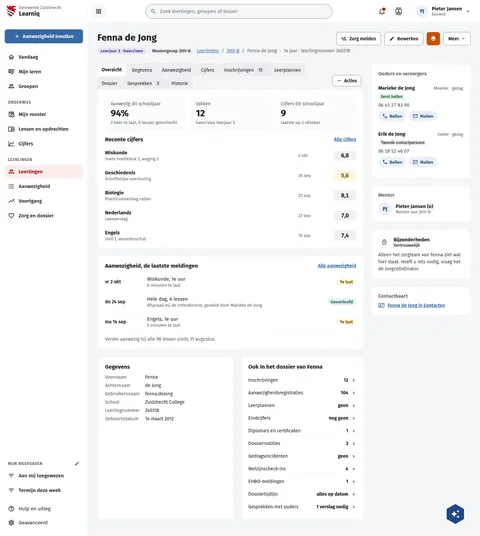
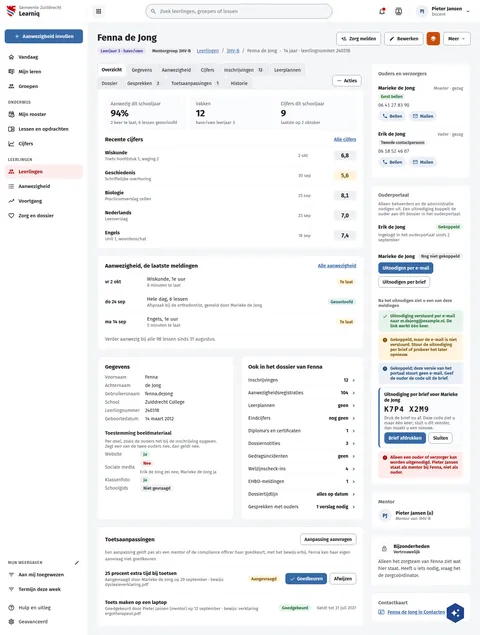
feat(screens): draw image consent, parent portal invites and exam accommodations on learniq/LqLeerling
Adds to the pupil board: consent for images per purpose on the details
block, a parent portal section with invite by email or letter, the three
outcomes, the one-time letter code and the refusal for someone who is not
a parent, and an exam accommodations tab with a requested and an approved
accommodation.

diff --git a/preview/screens/boards/LqLeerling.html b/preview/screens/boards/LqLeerling.html
@@ -191,6 +191,8 @@ a{color:var(--sc-primary, #3669a5)}a:hover{color:var(--sc-primary-deep, #234a78)
                 
                   <button type="button" role="tab" aria-selected="false" style="display: inline-flex; align-items: center; gap: 8px; box-sizing: border-box; min-height: 34px; padding: 8px 12px; margin-bottom: -1px; border: 1px solid #d6d9de; border-bottom: none; border-radius: 8px 8px 0 0; font: 400 14px var(--sc-font, 'Fira Sans'), sans-serif; color: var(--sc-work-ink, #1b1c1d); background: #eceef1; cursor: pointer; white-space: nowrap;">Gesprekken<span style="min-width: 20px; height: 20px; padding: 0 6px; box-sizing: border-box; border-radius: 10px; background: var(--sc-work-line, #e4e6ea); color: var(--sc-work-text, #3d4047); font-size: 12px; font-weight: 600; display: inline-flex; align-items: center; justify-content: center">2</span></button>
                 
+                  <button type="button" role="tab" aria-selected="false" style="display: inline-flex; align-items: center; gap: 8px; box-sizing: border-box; min-height: 34px; padding: 8px 12px; margin-bottom: -1px; border: 1px solid #d6d9de; border-bottom: none; border-radius: 8px 8px 0 0; font: 400 14px var(--sc-font, 'Fira Sans'), sans-serif; color: var(--sc-work-ink, #1b1c1d); background: #eceef1; cursor: pointer; white-space: nowrap;">Toetsaanpassingen<span style="min-width: 20px; height: 20px; padding: 0 6px; box-sizing: border-box; border-radius: 10px; background: var(--sc-work-line, #e4e6ea); color: var(--sc-work-text, #3d4047); font-size: 12px; font-weight: 600; display: inline-flex; align-items: center; justify-content: center">1</span></button>
+                
                   <button type="button" role="tab" aria-selected="false" style="display: inline-flex; align-items: center; gap: 8px; box-sizing: border-box; min-height: 34px; padding: 8px 12px; margin-bottom: -1px; border: 1px solid #d6d9de; border-bottom: none; border-radius: 8px 8px 0 0; font: 400 14px var(--sc-font, 'Fira Sans'), sans-serif; color: var(--sc-work-ink, #1b1c1d); background: #eceef1; cursor: pointer; white-space: nowrap;">Historie</button>
                 
               </div>
@@ -268,12 +270,19 @@ a{color:var(--sc-primary, #3669a5)}a:hover{color:var(--sc-primary-deep, #234a78)
               <section aria-labelledby="ll-geg" style="flex: 1 1 340px; min-width: 0; background: #ffffff; border: 1px solid var(--sc-work-line, #e4e6ea); border-radius: 12px; padding: 20px 22px; display: flex; flex-direction: column; gap: 12px">
                 <h2 id="ll-geg" style="margin: 0; font-size: 17px; font-weight: 700">Gegevens</h2>
                 <dl style="margin: 0; display: grid; grid-template-columns: max-content 1fr; gap: 8px 16px; font-size: 14px"><dt style="color: var(--sc-work-muted, #5e6168)">Voornaam</dt><dd style="margin: 0">Fenna</dd><dt style="color: var(--sc-work-muted, #5e6168)">Achternaam</dt><dd style="margin: 0">de Jong</dd><dt style="color: var(--sc-work-muted, #5e6168)">Gebruikersnaam</dt><dd style="margin: 0">fenna.dejong</dd><dt style="color: var(--sc-work-muted, #5e6168)">School</dt><dd style="margin: 0">Zuiddrecht College</dd><dt style="color: var(--sc-work-muted, #5e6168)">Leerlingnummer</dt><dd style="margin: 0">240318</dd><dt style="color: var(--sc-work-muted, #5e6168)">Geboortedatum</dt><dd style="margin: 0">14 maart 2012</dd></dl>
+                <div style="display: flex; flex-direction: column; gap: 8px; padding-top: 12px; border-top: 1px solid var(--sc-work-soft, #eef0f3)"><h3 style="margin: 0; font-size: 15px; font-weight: 600">Toestemming beeldmateriaal</h3><span style="font-size: 13px; color: var(--sc-work-muted, #5e6168)">Per doel, zoals de ouders het bij de inschrijving opgaven. Zegt een van de twee ouders nee, dan geldt nee.</span><dl style="margin: 0; display: grid; grid-template-columns: max-content 1fr; gap: 8px 16px; font-size: 14px; align-items: center"><dt style="color: var(--sc-work-muted, #5e6168)">Website</dt><dd style="margin: 0"><span style="padding: 3px 10px; border-radius: 12px; font-size: 13px; font-weight: 600; background: #e6f4ea; color: #1e6b33">Ja</span></dd><dt style="color: var(--sc-work-muted, #5e6168)">Sociale media</dt><dd style="margin: 0; display: flex; gap: 8px; align-items: center; flex-wrap: wrap"><span style="padding: 3px 10px; border-radius: 12px; font-size: 13px; font-weight: 600; background: #fdecea; color: var(--sc-accent-deep, #a30000)">Nee</span><span style="font-size: 13px; color: var(--sc-work-muted, #5e6168)">Erik de Jong zei nee, Marieke de Jong ja</span></dd><dt style="color: var(--sc-work-muted, #5e6168)">Klassenfoto</dt><dd style="margin: 0"><span style="padding: 3px 10px; border-radius: 12px; font-size: 13px; font-weight: 600; background: #e6f4ea; color: #1e6b33">Ja</span></dd><dt style="color: var(--sc-work-muted, #5e6168)">Schoolgids</dt><dd style="margin: 0"><span style="padding: 3px 10px; border-radius: 12px; font-size: 13px; font-weight: 600; background: var(--sc-work-chip, #f0f1f3); color: var(--sc-work-text, #3d4047)">Niet gevraagd</span></dd></dl></div>
               </section>
               <section aria-labelledby="ll-ook" style="flex: 1 1 300px; min-width: 0; background: #ffffff; border: 1px solid var(--sc-work-line, #e4e6ea); border-radius: 12px; padding: 20px 22px; display: flex; flex-direction: column; gap: 0">
                 <h2 id="ll-ook" style="margin: 0 0 10px; font-size: 17px; font-weight: 700">Ook in het dossier van Fenna</h2>
                 <a href="#" style="display: flex; justify-content: space-between; gap: 8px; padding: 10px 0; border-top: 1px solid var(--sc-work-soft, #eef0f3); font-size: 14px; color: var(--sc-work-ink, #1b1c1d); text-decoration: none"><span>Inschrijvingen</span><span style="display: flex; gap: 8px; align-items: center"><strong>12</strong><svg width="16" height="16" viewbox="0 0 24 24" fill="currentColor"><path d="M8.59,16.58L13.17,12L8.59,7.41L10,6L16,12L10,18L8.59,16.58Z"></path></svg></span></a><a href="LqAanwezigheidLijst.html" style="display: flex; justify-content: space-between; gap: 8px; padding: 10px 0; border-top: 1px solid var(--sc-work-soft, #eef0f3); font-size: 14px; color: var(--sc-work-ink, #1b1c1d); text-decoration: none"><span>Aanwezigheidsregistraties</span><span style="display: flex; gap: 8px; align-items: center"><strong>104</strong><svg width="16" height="16" viewbox="0 0 24 24" fill="currentColor"><path d="M8.59,16.58L13.17,12L8.59,7.41L10,6L16,12L10,18L8.59,16.58Z"></path></svg></span></a><a href="#" style="display: flex; justify-content: space-between; gap: 8px; padding: 10px 0; border-top: 1px solid var(--sc-work-soft, #eef0f3); font-size: 14px; color: var(--sc-work-ink, #1b1c1d); text-decoration: none"><span>Leerplannen</span><span style="display: flex; gap: 8px; align-items: center"><strong>geen</strong><svg width="16" height="16" viewbox="0 0 24 24" fill="currentColor"><path d="M8.59,16.58L13.17,12L8.59,7.41L10,6L16,12L10,18L8.59,16.58Z"></path></svg></span></a><a href="#" style="display: flex; justify-content: space-between; gap: 8px; padding: 10px 0; border-top: 1px solid var(--sc-work-soft, #eef0f3); font-size: 14px; color: var(--sc-work-ink, #1b1c1d); text-decoration: none"><span>Eindcijfers</span><span style="display: flex; gap: 8px; align-items: center"><strong>nog geen</strong><svg width="16" height="16" viewbox="0 0 24 24" fill="currentColor"><path d="M8.59,16.58L13.17,12L8.59,7.41L10,6L16,12L10,18L8.59,16.58Z"></path></svg></span></a><a href="#" style="display: flex; justify-content: space-between; gap: 8px; padding: 10px 0; border-top: 1px solid var(--sc-work-soft, #eef0f3); font-size: 14px; color: var(--sc-work-ink, #1b1c1d); text-decoration: none"><span>Diploma's en certificaten</span><span style="display: flex; gap: 8px; align-items: center"><strong>1</strong><svg width="16" height="16" viewbox="0 0 24 24" fill="currentColor"><path d="M8.59,16.58L13.17,12L8.59,7.41L10,6L16,12L10,18L8.59,16.58Z"></path></svg></span></a><a href="LqDossier.html" style="display: flex; justify-content: space-between; gap: 8px; padding: 10px 0; border-top: 1px solid var(--sc-work-soft, #eef0f3); font-size: 14px; color: var(--sc-work-ink, #1b1c1d); text-decoration: none"><span>Dossiernotities</span><span style="display: flex; gap: 8px; align-items: center"><strong>3</strong><svg width="16" height="16" viewbox="0 0 24 24" fill="currentColor"><path d="M8.59,16.58L13.17,12L8.59,7.41L10,6L16,12L10,18L8.59,16.58Z"></path></svg></span></a><a href="#" style="display: flex; justify-content: space-between; gap: 8px; padding: 10px 0; border-top: 1px solid var(--sc-work-soft, #eef0f3); font-size: 14px; color: var(--sc-work-ink, #1b1c1d); text-decoration: none"><span>Gedragsincidenten</span><span style="display: flex; gap: 8px; align-items: center"><strong>geen</strong><svg width="16" height="16" viewbox="0 0 24 24" fill="currentColor"><path d="M8.59,16.58L13.17,12L8.59,7.41L10,6L16,12L10,18L8.59,16.58Z"></path></svg></span></a><a href="#" style="display: flex; justify-content: space-between; gap: 8px; padding: 10px 0; border-top: 1px solid var(--sc-work-soft, #eef0f3); font-size: 14px; color: var(--sc-work-ink, #1b1c1d); text-decoration: none"><span>Welzijnscheck-ins</span><span style="display: flex; gap: 8px; align-items: center"><strong>4</strong><svg width="16" height="16" viewbox="0 0 24 24" fill="currentColor"><path d="M8.59,16.58L13.17,12L8.59,7.41L10,6L16,12L10,18L8.59,16.58Z"></path></svg></span></a><a href="#" style="display: flex; justify-content: space-between; gap: 8px; padding: 10px 0; border-top: 1px solid var(--sc-work-soft, #eef0f3); font-size: 14px; color: var(--sc-work-ink, #1b1c1d); text-decoration: none"><span>EHBO-meldingen</span><span style="display: flex; gap: 8px; align-items: center"><strong>1</strong><svg width="16" height="16" viewbox="0 0 24 24" fill="currentColor"><path d="M8.59,16.58L13.17,12L8.59,7.41L10,6L16,12L10,18L8.59,16.58Z"></path></svg></span></a><a href="LqDossierTijdlijn.html" style="display: flex; justify-content: space-between; gap: 8px; padding: 10px 0; border-top: 1px solid var(--sc-work-soft, #eef0f3); font-size: 14px; color: var(--sc-work-ink, #1b1c1d); text-decoration: none"><span>Dossiertijdlijn</span><span style="display: flex; gap: 8px; align-items: center"><strong>alles op datum</strong><svg width="16" height="16" viewbox="0 0 24 24" fill="currentColor" aria-hidden="true"><path d="M8.59,16.58L13.17,12L8.59,7.41L10,6L16,12L10,18L8.59,16.58Z"></path></svg></span></a><a href="LqGespreksverslag.html" style="display: flex; justify-content: space-between; gap: 8px; padding: 10px 0; border-top: 1px solid var(--sc-work-soft, #eef0f3); font-size: 14px; color: var(--sc-work-ink, #1b1c1d); text-decoration: none"><span>Gesprekken met ouders</span><span style="display: flex; gap: 8px; align-items: center"><strong>1 verslag nodig</strong><svg width="16" height="16" viewbox="0 0 24 24" fill="currentColor" aria-hidden="true"><path d="M8.59,16.58L13.17,12L8.59,7.41L10,6L16,12L10,18L8.59,16.58Z"></path></svg></span></a>
               </section>
             </div>
+            <section aria-labelledby="ll-toets" style="background: #ffffff; border: 1px solid var(--sc-work-line, #e4e6ea); border-radius: 12px; padding: 20px 22px; display: flex; flex-direction: column; gap: 12px">
+              <div style="display: flex; justify-content: space-between; align-items: center; gap: 12px; flex-wrap: wrap"><h2 id="ll-toets" style="margin: 0; font-size: 17px; font-weight: 700">Toetsaanpassingen</h2><button type="button" style="display: inline-flex; align-items: center; gap: 6px; height: 34px; padding: 0 12px; border-radius: 8px; font: 600 14px var(--sc-font, 'Fira Sans'), sans-serif; white-space: nowrap; border: 1px solid var(--sc-work-field, #828a95); background: #ffffff; color: var(--sc-work-ink, #1b1c1d)">Aanpassing aanvragen</button></div>
+              <p style="margin: 0; font-size: 13px; color: var(--sc-work-muted, #5e6168); line-height: 1.5">Een aanpassing geldt pas als een mentor of de compliance officer haar goedkeurt, met het bewijs erbij. Fenna kan haar eigen aanvraag niet goedkeuren.</p>
+              <div style="display: flex; flex-wrap: wrap; align-items: center; gap: 8px 16px; padding: 12px 0; border-top: 1px solid var(--sc-work-soft, #eef0f3)"><span style="flex: 1 1 240px; display: flex; flex-direction: column; gap: 2px"><strong style="font-size: 15px">25 procent extra tijd bij toetsen</strong><span style="font-size: 13px; color: var(--sc-work-muted, #5e6168)">Aangevraagd door Marieke de Jong op 29 september · bewijs: dyslexieverklaring.pdf</span></span><span style="padding: 3px 10px; border-radius: 12px; font-size: 13px; font-weight: 600; background: #fff4de; color: #7a4f00">Aangevraagd</span><span style="flex: 0 0 auto; display: flex; gap: 8px; align-items: center"><button type="button" style="display: inline-flex; align-items: center; gap: 6px; height: 34px; padding: 0 12px; border-radius: 8px; font: 600 14px var(--sc-font, 'Fira Sans'), sans-serif; white-space: nowrap; border: 1px solid var(--sc-primary, #3669a5); background: var(--sc-primary, #3669a5); color: #ffffff"><svg width="16" height="16" viewbox="0 0 24 24" fill="currentColor" aria-hidden="true" style="flex: none; margin-top: 1px"><path d="M21,7L9,19L3.5,13.5L4.91,12.09L9,16.17L19.59,5.59L21,7Z"></path></svg>Goedkeuren</button><button type="button" style="display: inline-flex; align-items: center; gap: 6px; height: 34px; padding: 0 12px; border-radius: 8px; font: 600 14px var(--sc-font, 'Fira Sans'), sans-serif; white-space: nowrap; border: 1px solid var(--sc-work-field, #828a95); background: #ffffff; color: var(--sc-work-ink, #1b1c1d)">Afwijzen</button></span></div>
+              <div style="display: flex; flex-wrap: wrap; align-items: center; gap: 8px 16px; padding: 12px 0; border-top: 1px solid var(--sc-work-soft, #eef0f3)"><span style="flex: 1 1 240px; display: flex; flex-direction: column; gap: 2px"><strong style="font-size: 15px">Toets maken op een laptop</strong><span style="font-size: 13px; color: var(--sc-work-muted, #5e6168)">Goedgekeurd door Pieter Jansen (mentor) op 12 september · bewijs: verklaring ergotherapeut.pdf</span></span><span style="padding: 3px 10px; border-radius: 12px; font-size: 13px; font-weight: 600; background: #e6f4ea; color: #1e6b33">Goedgekeurd</span><span style="flex: 0 0 auto; display: flex; gap: 8px; align-items: center"><span style="font-size: 13px; color: var(--sc-work-muted, #5e6168)">Geldt tot 31 juli 2027</span></span></div>
+            </section>
           </div>
 
           <aside style="flex: 1 1 300px; min-width: 0; display: flex; flex-direction: column; gap: 20px">
@@ -300,6 +309,19 @@ a{color:var(--sc-primary, #3669a5)}a:hover{color:var(--sc-primary-deep, #234a78)
                   </span>
                 </div>
               
+            </section>
+            <section aria-labelledby="ll-portaal" style="background: #ffffff; border: 1px solid var(--sc-work-line, #e4e6ea); border-radius: 12px; padding: 20px 22px; display: flex; flex-direction: column; gap: 12px; gap: 10px">
+              <h2 id="ll-portaal" style="margin: 0; font-size: 15px; font-weight: 600; color: var(--sc-work-muted, #5e6168)">Ouderportaal</h2>
+              <span style="font-size: 13px; color: var(--sc-work-muted, #5e6168)">Alleen beheerders en de administratie nodigen uit. Een uitnodiging koppelt de ouder aan dit dossier in het ouderportaal.</span>
+              <div style="display: flex; flex-direction: column; gap: 6px; padding: 10px 0; border-top: 1px solid var(--sc-work-soft, #eef0f3)"><span style="display: flex; justify-content: space-between; gap: 8px; align-items: center"><strong style="font-size: 15px">Erik de Jong</strong><span style="padding: 3px 10px; border-radius: 12px; font-size: 13px; font-weight: 600; background: #e6f4ea; color: #1e6b33">Gekoppeld</span></span><span style="font-size: 13px; color: var(--sc-work-muted, #5e6168)">Ingelogd in het ouderportaal sinds 2 september</span></div>
+              <div style="display: flex; flex-direction: column; gap: 8px; padding: 10px 0; border-top: 1px solid var(--sc-work-soft, #eef0f3)"><span style="display: flex; justify-content: space-between; gap: 8px; align-items: center"><strong style="font-size: 15px">Marieke de Jong</strong><span style="padding: 3px 10px; border-radius: 12px; font-size: 13px; font-weight: 600; background: var(--sc-work-chip, #f0f1f3); color: var(--sc-work-text, #3d4047)">Nog niet gekoppeld</span></span><div style="display: flex; flex-wrap: wrap; gap: 8px"><button type="button" style="display: inline-flex; align-items: center; gap: 6px; height: 34px; padding: 0 12px; border-radius: 8px; font: 600 14px var(--sc-font, 'Fira Sans'), sans-serif; white-space: nowrap; border: 1px solid var(--sc-primary, #3669a5); background: var(--sc-primary, #3669a5); color: #ffffff">Uitnodigen per e-mail</button><button type="button" style="display: inline-flex; align-items: center; gap: 6px; height: 34px; padding: 0 12px; border-radius: 8px; font: 600 14px var(--sc-font, 'Fira Sans'), sans-serif; white-space: nowrap; border: 1px solid var(--sc-work-field, #828a95); background: #ffffff; color: var(--sc-work-ink, #1b1c1d)">Uitnodigen per brief</button></div></div>
+              <div style="display: flex; flex-direction: column; gap: 6px; padding-top: 10px; border-top: 1px solid var(--sc-work-soft, #eef0f3)"><span style="font-size: 13px; color: var(--sc-work-muted, #5e6168); font-weight: 600">Na het uitnodigen ziet u een van deze meldingen</span>
+                <div style="display: flex; gap: 8px; align-items: flex-start; padding: 10px 12px; border-radius: 8px; background: #e6f4ea; color: #1e6b33; font-size: 13px; font-weight: 600"><svg width="16" height="16" viewbox="0 0 24 24" fill="currentColor" aria-hidden="true" style="flex: none; margin-top: 1px"><path d="M21,7L9,19L3.5,13.5L4.91,12.09L9,16.17L19.59,5.59L21,7Z"></path></svg><span>Uitnodiging verstuurd per e-mail naar m.dejong@example.nl. De link werkt één keer.</span></div>
+                <div style="display: flex; gap: 8px; align-items: flex-start; padding: 10px 12px; border-radius: 8px; background: #fff4de; color: #7a4f00; font-size: 13px; font-weight: 600"><svg width="16" height="16" viewbox="0 0 24 24" fill="currentColor" aria-hidden="true" style="flex: none; margin-top: 1px"><path d="M13,13H11V7H13M13,17H11V15H13M12,2A10,10 0 0,0 2,12A10,10 0 0,0 12,22A10,10 0 0,0 22,12A10,10 0 0,0 12,2Z"></path></svg><span>Gekoppeld, maar de e-mail is niet verstuurd. Stuur de uitnodiging per brief of probeer het later opnieuw.</span></div>
+                <div style="display: flex; gap: 8px; align-items: flex-start; padding: 10px 12px; border-radius: 8px; background: var(--sc-primary-light, #eaf0f7); color: var(--sc-primary-deep, #234a78); font-size: 13px; font-weight: 600"><svg width="16" height="16" viewbox="0 0 24 24" fill="currentColor" aria-hidden="true" style="flex: none; margin-top: 1px"><path d="M13,13H11V7H13M13,17H11V15H13M12,2A10,10 0 0,0 2,12A10,10 0 0,0 12,22A10,10 0 0,0 22,12A10,10 0 0,0 12,2Z"></path></svg><span>Gekoppeld; deze versie van het portaal stuurt geen e-mail. Geef de ouder de code uit de brief.</span></div>
+              </div>
+              <div role="dialog" aria-labelledby="ll-brief" style="display: flex; flex-direction: column; gap: 6px; padding: 12px 14px; border: 1px solid var(--sc-work-line, #e4e6ea); border-left: 4px solid var(--sc-primary, #3669a5); border-radius: 10px; background: #fafbfc"><strong id="ll-brief" style="font-size: 14px">Uitnodiging per brief voor Marieke de Jong</strong><span style="font: 700 22px ui-monospace, monospace; letter-spacing: 0.08em">K7P4 X2M9</span><span style="font-size: 13px; color: var(--sc-work-muted, #5e6168)">Druk de brief nu af. Deze code ziet u maar één keer; sluit u dit venster, dan maakt u een nieuwe.</span><div style="display: flex; gap: 8px; flex-wrap: wrap"><button type="button" style="display: inline-flex; align-items: center; gap: 6px; height: 34px; padding: 0 12px; border-radius: 8px; font: 600 14px var(--sc-font, 'Fira Sans'), sans-serif; white-space: nowrap; border: 1px solid var(--sc-primary, #3669a5); background: var(--sc-primary, #3669a5); color: #ffffff">Brief afdrukken</button><button type="button" style="display: inline-flex; align-items: center; gap: 6px; height: 34px; padding: 0 12px; border-radius: 8px; font: 600 14px var(--sc-font, 'Fira Sans'), sans-serif; white-space: nowrap; border: 1px solid var(--sc-work-field, #828a95); background: #ffffff; color: var(--sc-work-ink, #1b1c1d)">Sluiten</button></div></div>
+              <div style="display: flex; gap: 8px; align-items: flex-start; padding: 10px 12px; border-radius: 8px; background: #fdecea; color: var(--sc-accent-deep, #a30000); font-size: 13px; font-weight: 600"><svg width="16" height="16" viewbox="0 0 24 24" fill="currentColor" aria-hidden="true" style="flex: none; margin-top: 1px"><path d="M13,13H11V7H13M13,17H11V15H13M12,2A10,10 0 0,0 2,12A10,10 0 0,0 12,22A10,10 0 0,0 22,12A10,10 0 0,0 12,2Z"></path></svg><span>Alleen een ouder of verzorger kan worden uitgenodigd. Pieter Jansen staat als mentor bij Fenna, niet als ouder.</span></div>
             </section>
             <section style="background: #ffffff; border: 1px solid var(--sc-work-line, #e4e6ea); border-radius: 12px; padding: 20px 22px; display: flex; flex-direction: column; gap: 12px">
               <h2 style="margin: 0; font-size: 15px; font-weight: 600; color: var(--sc-work-muted, #5e6168)">Mentor</h2>

diff --git a/screens-src/zuiddrecht/LqLeerling.dc.html b/screens-src/zuiddrecht/LqLeerling.dc.html
@@ -81,12 +81,19 @@ a{color:#3669a5}a:hover{color:#234a78}
               <section aria-labelledby="ll-geg" style="flex: 1 1 340px; min-width: 0; background: #ffffff; border: 1px solid #e4e6ea; border-radius: 12px; padding: 20px 22px; display: flex; flex-direction: column; gap: 12px">
                 <h2 id="ll-geg" style="margin: 0; font-size: 17px; font-weight: 700">Gegevens</h2>
                 <dl style="margin: 0; display: grid; grid-template-columns: max-content 1fr; gap: 8px 16px; font-size: 14px"><dt style="color: #5e6168">Voornaam</dt><dd style="margin: 0">Fenna</dd><dt style="color: #5e6168">Achternaam</dt><dd style="margin: 0">de Jong</dd><dt style="color: #5e6168">Gebruikersnaam</dt><dd style="margin: 0">fenna.dejong</dd><dt style="color: #5e6168">School</dt><dd style="margin: 0">Zuiddrecht College</dd><dt style="color: #5e6168">Leerlingnummer</dt><dd style="margin: 0">240318</dd><dt style="color: #5e6168">Geboortedatum</dt><dd style="margin: 0">14 maart 2012</dd></dl>
+                <div style="display: flex; flex-direction: column; gap: 8px; padding-top: 12px; border-top: 1px solid #eef0f3"><h3 style="margin: 0; font-size: 15px; font-weight: 600">Toestemming beeldmateriaal</h3><span style="font-size: 13px; color: #5e6168">Per doel, zoals de ouders het bij de inschrijving opgaven. Zegt een van de twee ouders nee, dan geldt nee.</span><dl style="margin: 0; display: grid; grid-template-columns: max-content 1fr; gap: 8px 16px; font-size: 14px; align-items: center"><dt style="color: #5e6168">Website</dt><dd style="margin: 0"><span style="padding: 3px 10px; border-radius: 12px; font-size: 13px; font-weight: 600; background: #e6f4ea; color: #1e6b33">Ja</span></dd><dt style="color: #5e6168">Sociale media</dt><dd style="margin: 0; display: flex; gap: 8px; align-items: center; flex-wrap: wrap"><span style="padding: 3px 10px; border-radius: 12px; font-size: 13px; font-weight: 600; background: #fdecea; color: #a30000">Nee</span><span style="font-size: 13px; color: #5e6168">Erik de Jong zei nee, Marieke de Jong ja</span></dd><dt style="color: #5e6168">Klassenfoto</dt><dd style="margin: 0"><span style="padding: 3px 10px; border-radius: 12px; font-size: 13px; font-weight: 600; background: #e6f4ea; color: #1e6b33">Ja</span></dd><dt style="color: #5e6168">Schoolgids</dt><dd style="margin: 0"><span style="padding: 3px 10px; border-radius: 12px; font-size: 13px; font-weight: 600; background: #f0f1f3; color: #3d4047">Niet gevraagd</span></dd></dl></div>
               </section>
               <section aria-labelledby="ll-ook" style="flex: 1 1 300px; min-width: 0; background: #ffffff; border: 1px solid #e4e6ea; border-radius: 12px; padding: 20px 22px; display: flex; flex-direction: column; gap: 0">
                 <h2 id="ll-ook" style="margin: 0 0 10px; font-size: 17px; font-weight: 700">Ook in het dossier van Fenna</h2>
                 <a href="#" style="display: flex; justify-content: space-between; gap: 8px; padding: 10px 0; border-top: 1px solid #eef0f3; font-size: 14px; color: #1b1c1d; text-decoration: none"><span>Inschrijvingen</span><span style="display: flex; gap: 8px; align-items: center"><strong>12</strong><svg width="16" height="16" viewBox="0 0 24 24" fill="currentColor"><path d="M8.59,16.58L13.17,12L8.59,7.41L10,6L16,12L10,18L8.59,16.58Z"></path></svg></span></a><a href="LqAanwezigheidLijst.dc.html" style="display: flex; justify-content: space-between; gap: 8px; padding: 10px 0; border-top: 1px solid #eef0f3; font-size: 14px; color: #1b1c1d; text-decoration: none"><span>Aanwezigheidsregistraties</span><span style="display: flex; gap: 8px; align-items: center"><strong>104</strong><svg width="16" height="16" viewBox="0 0 24 24" fill="currentColor"><path d="M8.59,16.58L13.17,12L8.59,7.41L10,6L16,12L10,18L8.59,16.58Z"></path></svg></span></a><a href="#" style="display: flex; justify-content: space-between; gap: 8px; padding: 10px 0; border-top: 1px solid #eef0f3; font-size: 14px; color: #1b1c1d; text-decoration: none"><span>Leerplannen</span><span style="display: flex; gap: 8px; align-items: center"><strong>geen</strong><svg width="16" height="16" viewBox="0 0 24 24" fill="currentColor"><path d="M8.59,16.58L13.17,12L8.59,7.41L10,6L16,12L10,18L8.59,16.58Z"></path></svg></span></a><a href="#" style="display: flex; justify-content: space-between; gap: 8px; padding: 10px 0; border-top: 1px solid #eef0f3; font-size: 14px; color: #1b1c1d; text-decoration: none"><span>Eindcijfers</span><span style="display: flex; gap: 8px; align-items: center"><strong>nog geen</strong><svg width="16" height="16" viewBox="0 0 24 24" fill="currentColor"><path d="M8.59,16.58L13.17,12L8.59,7.41L10,6L16,12L10,18L8.59,16.58Z"></path></svg></span></a><a href="#" style="display: flex; justify-content: space-between; gap: 8px; padding: 10px 0; border-top: 1px solid #eef0f3; font-size: 14px; color: #1b1c1d; text-decoration: none"><span>Diploma's en certificaten</span><span style="display: flex; gap: 8px; align-items: center"><strong>1</strong><svg width="16" height="16" viewBox="0 0 24 24" fill="currentColor"><path d="M8.59,16.58L13.17,12L8.59,7.41L10,6L16,12L10,18L8.59,16.58Z"></path></svg></span></a><a href="LqDossier.dc.html" style="display: flex; justify-content: space-between; gap: 8px; padding: 10px 0; border-top: 1px solid #eef0f3; font-size: 14px; color: #1b1c1d; text-decoration: none"><span>Dossiernotities</span><span style="display: flex; gap: 8px; align-items: center"><strong>3</strong><svg width="16" height="16" viewBox="0 0 24 24" fill="currentColor"><path d="M8.59,16.58L13.17,12L8.59,7.41L10,6L16,12L10,18L8.59,16.58Z"></path></svg></span></a><a href="#" style="display: flex; justify-content: space-between; gap: 8px; padding: 10px 0; border-top: 1px solid #eef0f3; font-size: 14px; color: #1b1c1d; text-decoration: none"><span>Gedragsincidenten</span><span style="display: flex; gap: 8px; align-items: center"><strong>geen</strong><svg width="16" height="16" viewBox="0 0 24 24" fill="currentColor"><path d="M8.59,16.58L13.17,12L8.59,7.41L10,6L16,12L10,18L8.59,16.58Z"></path></svg></span></a><a href="#" style="display: flex; justify-content: space-between; gap: 8px; padding: 10px 0; border-top: 1px solid #eef0f3; font-size: 14px; color: #1b1c1d; text-decoration: none"><span>Welzijnscheck-ins</span><span style="display: flex; gap: 8px; align-items: center"><strong>4</strong><svg width="16" height="16" viewBox="0 0 24 24" fill="currentColor"><path d="M8.59,16.58L13.17,12L8.59,7.41L10,6L16,12L10,18L8.59,16.58Z"></path></svg></span></a><a href="#" style="display: flex; justify-content: space-between; gap: 8px; padding: 10px 0; border-top: 1px solid #eef0f3; font-size: 14px; color: #1b1c1d; text-decoration: none"><span>EHBO-meldingen</span><span style="display: flex; gap: 8px; align-items: center"><strong>1</strong><svg width="16" height="16" viewBox="0 0 24 24" fill="currentColor"><path d="M8.59,16.58L13.17,12L8.59,7.41L10,6L16,12L10,18L8.59,16.58Z"></path></svg></span></a><a href="LqDossierTijdlijn.dc.html" style="display: flex; justify-content: space-between; gap: 8px; padding: 10px 0; border-top: 1px solid #eef0f3; font-size: 14px; color: #1b1c1d; text-decoration: none"><span>Dossiertijdlijn</span><span style="display: flex; gap: 8px; align-items: center"><strong>alles op datum</strong><svg width="16" height="16" viewBox="0 0 24 24" fill="currentColor" aria-hidden="true"><path d="M8.59,16.58L13.17,12L8.59,7.41L10,6L16,12L10,18L8.59,16.58Z"></path></svg></span></a><a href="LqGespreksverslag.dc.html" style="display: flex; justify-content: space-between; gap: 8px; padding: 10px 0; border-top: 1px solid #eef0f3; font-size: 14px; color: #1b1c1d; text-decoration: none"><span>Gesprekken met ouders</span><span style="display: flex; gap: 8px; align-items: center"><strong>1 verslag nodig</strong><svg width="16" height="16" viewBox="0 0 24 24" fill="currentColor" aria-hidden="true"><path d="M8.59,16.58L13.17,12L8.59,7.41L10,6L16,12L10,18L8.59,16.58Z"></path></svg></span></a>
               </section>
             </div>
+            <section aria-labelledby="ll-toets" style="background: #ffffff; border: 1px solid #e4e6ea; border-radius: 12px; padding: 20px 22px; display: flex; flex-direction: column; gap: 12px">
+              <div style="display: flex; justify-content: space-between; align-items: center; gap: 12px; flex-wrap: wrap"><h2 id="ll-toets" style="margin: 0; font-size: 17px; font-weight: 700">Toetsaanpassingen</h2><button type="button" style="display: inline-flex; align-items: center; gap: 6px; height: 34px; padding: 0 12px; border-radius: 8px; font: 600 14px 'Fira Sans', sans-serif; white-space: nowrap; border: 1px solid #828a95; background: #ffffff; color: #1b1c1d">Aanpassing aanvragen</button></div>
+              <p style="margin: 0; font-size: 13px; color: #5e6168; line-height: 1.5">Een aanpassing geldt pas als een mentor of de compliance officer haar goedkeurt, met het bewijs erbij. Fenna kan haar eigen aanvraag niet goedkeuren.</p>
+              <div style="display: flex; flex-wrap: wrap; align-items: center; gap: 8px 16px; padding: 12px 0; border-top: 1px solid #eef0f3"><span style="flex: 1 1 240px; display: flex; flex-direction: column; gap: 2px"><strong style="font-size: 15px">25 procent extra tijd bij toetsen</strong><span style="font-size: 13px; color: #5e6168">Aangevraagd door Marieke de Jong op 29 september · bewijs: dyslexieverklaring.pdf</span></span><span style="padding: 3px 10px; border-radius: 12px; font-size: 13px; font-weight: 600; background: #fff4de; color: #7a4f00">Aangevraagd</span><span style="flex: 0 0 auto; display: flex; gap: 8px; align-items: center"><button type="button" style="display: inline-flex; align-items: center; gap: 6px; height: 34px; padding: 0 12px; border-radius: 8px; font: 600 14px 'Fira Sans', sans-serif; white-space: nowrap; border: 1px solid #3669a5; background: #3669a5; color: #ffffff"><svg width="16" height="16" viewBox="0 0 24 24" fill="currentColor" aria-hidden="true" style="flex: none; margin-top: 1px"><path d="M21,7L9,19L3.5,13.5L4.91,12.09L9,16.17L19.59,5.59L21,7Z"></path></svg>Goedkeuren</button><button type="button" style="display: inline-flex; align-items: center; gap: 6px; height: 34px; padding: 0 12px; border-radius: 8px; font: 600 14px 'Fira Sans', sans-serif; white-space: nowrap; border: 1px solid #828a95; background: #ffffff; color: #1b1c1d">Afwijzen</button></span></div>
+              <div style="display: flex; flex-wrap: wrap; align-items: center; gap: 8px 16px; padding: 12px 0; border-top: 1px solid #eef0f3"><span style="flex: 1 1 240px; display: flex; flex-direction: column; gap: 2px"><strong style="font-size: 15px">Toets maken op een laptop</strong><span style="font-size: 13px; color: #5e6168">Goedgekeurd door Pieter Jansen (mentor) op 12 september · bewijs: verklaring ergotherapeut.pdf</span></span><span style="padding: 3px 10px; border-radius: 12px; font-size: 13px; font-weight: 600; background: #e6f4ea; color: #1e6b33">Goedgekeurd</span><span style="flex: 0 0 auto; display: flex; gap: 8px; align-items: center"><span style="font-size: 13px; color: #5e6168">Geldt tot 31 juli 2027</span></span></div>
+            </section>
           </div>
 
           <aside style="flex: 1 1 300px; min-width: 0; display: flex; flex-direction: column; gap: 20px">
@@ -103,6 +110,19 @@ a{color:#3669a5}a:hover{color:#234a78}
                   </span>
                 </div>
               </sc-for>
+            </section>
+            <section aria-labelledby="ll-portaal" style="background: #ffffff; border: 1px solid #e4e6ea; border-radius: 12px; padding: 20px 22px; display: flex; flex-direction: column; gap: 12px; gap: 10px">
+              <h2 id="ll-portaal" style="margin: 0; font-size: 15px; font-weight: 600; color: #5e6168">Ouderportaal</h2>
+              <span style="font-size: 13px; color: #5e6168">Alleen beheerders en de administratie nodigen uit. Een uitnodiging koppelt de ouder aan dit dossier in het ouderportaal.</span>
+              <div style="display: flex; flex-direction: column; gap: 6px; padding: 10px 0; border-top: 1px solid #eef0f3"><span style="display: flex; justify-content: space-between; gap: 8px; align-items: center"><strong style="font-size: 15px">Erik de Jong</strong><span style="padding: 3px 10px; border-radius: 12px; font-size: 13px; font-weight: 600; background: #e6f4ea; color: #1e6b33">Gekoppeld</span></span><span style="font-size: 13px; color: #5e6168">Ingelogd in het ouderportaal sinds 2 september</span></div>
+              <div style="display: flex; flex-direction: column; gap: 8px; padding: 10px 0; border-top: 1px solid #eef0f3"><span style="display: flex; justify-content: space-between; gap: 8px; align-items: center"><strong style="font-size: 15px">Marieke de Jong</strong><span style="padding: 3px 10px; border-radius: 12px; font-size: 13px; font-weight: 600; background: #f0f1f3; color: #3d4047">Nog niet gekoppeld</span></span><div style="display: flex; flex-wrap: wrap; gap: 8px"><button type="button" style="display: inline-flex; align-items: center; gap: 6px; height: 34px; padding: 0 12px; border-radius: 8px; font: 600 14px 'Fira Sans', sans-serif; white-space: nowrap; border: 1px solid #3669a5; background: #3669a5; color: #ffffff">Uitnodigen per e-mail</button><button type="button" style="display: inline-flex; align-items: center; gap: 6px; height: 34px; padding: 0 12px; border-radius: 8px; font: 600 14px 'Fira Sans', sans-serif; white-space: nowrap; border: 1px solid #828a95; background: #ffffff; color: #1b1c1d">Uitnodigen per brief</button></div></div>
+              <div style="display: flex; flex-direction: column; gap: 6px; padding-top: 10px; border-top: 1px solid #eef0f3"><span style="font-size: 13px; color: #5e6168; font-weight: 600">Na het uitnodigen ziet u een van deze meldingen</span>
+                <div style="display: flex; gap: 8px; align-items: flex-start; padding: 10px 12px; border-radius: 8px; background: #e6f4ea; color: #1e6b33; font-size: 13px; font-weight: 600"><svg width="16" height="16" viewBox="0 0 24 24" fill="currentColor" aria-hidden="true" style="flex: none; margin-top: 1px"><path d="M21,7L9,19L3.5,13.5L4.91,12.09L9,16.17L19.59,5.59L21,7Z"></path></svg><span>Uitnodiging verstuurd per e-mail naar m.dejong@example.nl. De link werkt één keer.</span></div>
+                <div style="display: flex; gap: 8px; align-items: flex-start; padding: 10px 12px; border-radius: 8px; background: #fff4de; color: #7a4f00; font-size: 13px; font-weight: 600"><svg width="16" height="16" viewBox="0 0 24 24" fill="currentColor" aria-hidden="true" style="flex: none; margin-top: 1px"><path d="M13,13H11V7H13M13,17H11V15H13M12,2A10,10 0 0,0 2,12A10,10 0 0,0 12,22A10,10 0 0,0 22,12A10,10 0 0,0 12,2Z"></path></svg><span>Gekoppeld, maar de e-mail is niet verstuurd. Stuur de uitnodiging per brief of probeer het later opnieuw.</span></div>
+                <div style="display: flex; gap: 8px; align-items: flex-start; padding: 10px 12px; border-radius: 8px; background: #eaf0f7; color: #234a78; font-size: 13px; font-weight: 600"><svg width="16" height="16" viewBox="0 0 24 24" fill="currentColor" aria-hidden="true" style="flex: none; margin-top: 1px"><path d="M13,13H11V7H13M13,17H11V15H13M12,2A10,10 0 0,0 2,12A10,10 0 0,0 12,22A10,10 0 0,0 22,12A10,10 0 0,0 12,2Z"></path></svg><span>Gekoppeld; deze versie van het portaal stuurt geen e-mail. Geef de ouder de code uit de brief.</span></div>
+              </div>
+              <div role="dialog" aria-labelledby="ll-brief" style="display: flex; flex-direction: column; gap: 6px; padding: 12px 14px; border: 1px solid #e4e6ea; border-left: 4px solid #3669a5; border-radius: 10px; background: #fafbfc"><strong id="ll-brief" style="font-size: 14px">Uitnodiging per brief voor Marieke de Jong</strong><span style="font: 700 22px ui-monospace, monospace; letter-spacing: 0.08em">K7P4 X2M9</span><span style="font-size: 13px; color: #5e6168">Druk de brief nu af. Deze code ziet u maar één keer; sluit u dit venster, dan maakt u een nieuwe.</span><div style="display: flex; gap: 8px; flex-wrap: wrap"><button type="button" style="display: inline-flex; align-items: center; gap: 6px; height: 34px; padding: 0 12px; border-radius: 8px; font: 600 14px 'Fira Sans', sans-serif; white-space: nowrap; border: 1px solid #3669a5; background: #3669a5; color: #ffffff">Brief afdrukken</button><button type="button" style="display: inline-flex; align-items: center; gap: 6px; height: 34px; padding: 0 12px; border-radius: 8px; font: 600 14px 'Fira Sans', sans-serif; white-space: nowrap; border: 1px solid #828a95; background: #ffffff; color: #1b1c1d">Sluiten</button></div></div>
+              <div style="display: flex; gap: 8px; align-items: flex-start; padding: 10px 12px; border-radius: 8px; background: #fdecea; color: #a30000; font-size: 13px; font-weight: 600"><svg width="16" height="16" viewBox="0 0 24 24" fill="currentColor" aria-hidden="true" style="flex: none; margin-top: 1px"><path d="M13,13H11V7H13M13,17H11V15H13M12,2A10,10 0 0,0 2,12A10,10 0 0,0 12,22A10,10 0 0,0 22,12A10,10 0 0,0 12,2Z"></path></svg><span>Alleen een ouder of verzorger kan worden uitgenodigd. Pieter Jansen staat als mentor bij Fenna, niet als ouder.</span></div>
             </section>
             <section style="background: #ffffff; border: 1px solid #e4e6ea; border-radius: 12px; padding: 20px 22px; display: flex; flex-direction: column; gap: 12px">
               <h2 style="margin: 0; font-size: 15px; font-weight: 600; color: #5e6168">Mentor</h2>
@@ -134,7 +154,7 @@ class Component extends DCLogic {
     ];
     const tabBase = "display: inline-flex; align-items: center; gap: 8px; box-sizing: border-box; min-height: 34px; padding: 8px 12px; margin-bottom: -1px; border: 1px solid #d6d9de; border-bottom: none; border-radius: 8px 8px 0 0; font: 400 14px 'Fira Sans', sans-serif; color: #1b1c1d; background: #eceef1; cursor: pointer; white-space: nowrap;";
     const tab = (on) => on ? tabBase + " background: #ffffff; border-bottom: 1px solid #ffffff; font-weight: 700;" : tabBase;
-    const tabs = [['Overzicht', true], ['Gegevens', false], ['Aanwezigheid', false], ['Cijfers', false], ['Inschrijvingen 12', false], ['Leerplannen', false], ['Dossier', false], ['Gesprekken 2', false], ['Historie', false]].map(([label, on]) => ({ label, sel: on ? 'true' : 'false', style: tab(on) }));
+    const tabs = [['Overzicht', true], ['Gegevens', false], ['Aanwezigheid', false], ['Cijfers', false], ['Inschrijvingen 12', false], ['Leerplannen', false], ['Dossier', false], ['Gesprekken 2', false], ['Toetsaanpassingen 1', false], ['Historie', false]].map(([label, on]) => ({ label, sel: on ? 'true' : 'false', style: tab(on) }));
     const kpis = [
       { label: 'Aanwezig dit schooljaar', value: '94%', note: '2 keer te laat, 6 lessen geoorloofd' },
       { label: 'Vakken', value: '12', note: 'havo/vwo leerjaar 3' },
